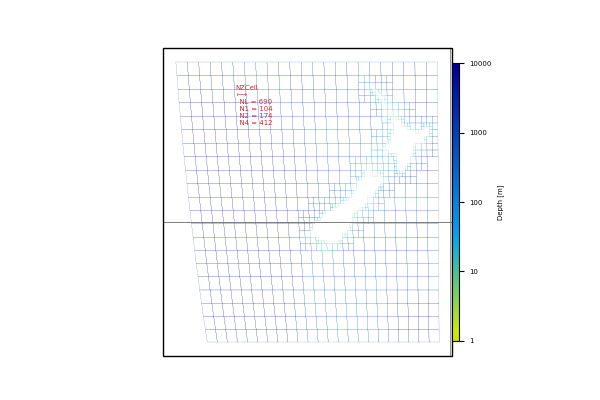
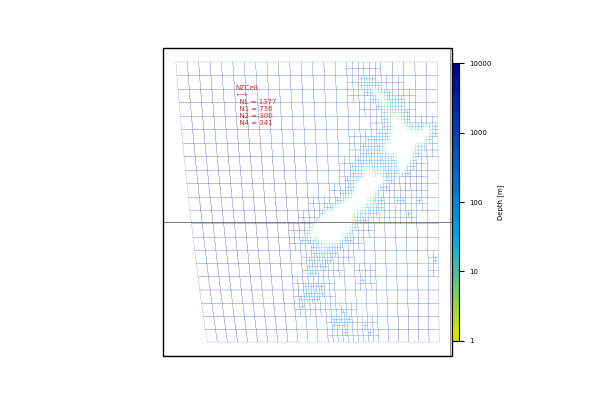
Updated nz image

diff --git a/README.rst b/README.rst
@@ -44,4 +44,10 @@ Contributors::
     Qingxiang Liu (University of Melbourne)
 
 
+
+Example
+--------
+
+Simple example showing a 1 deg NZ grid refining down to 0.25 based on a depth of 250m
+
 .. image:: examples/nz/NZCell.png
